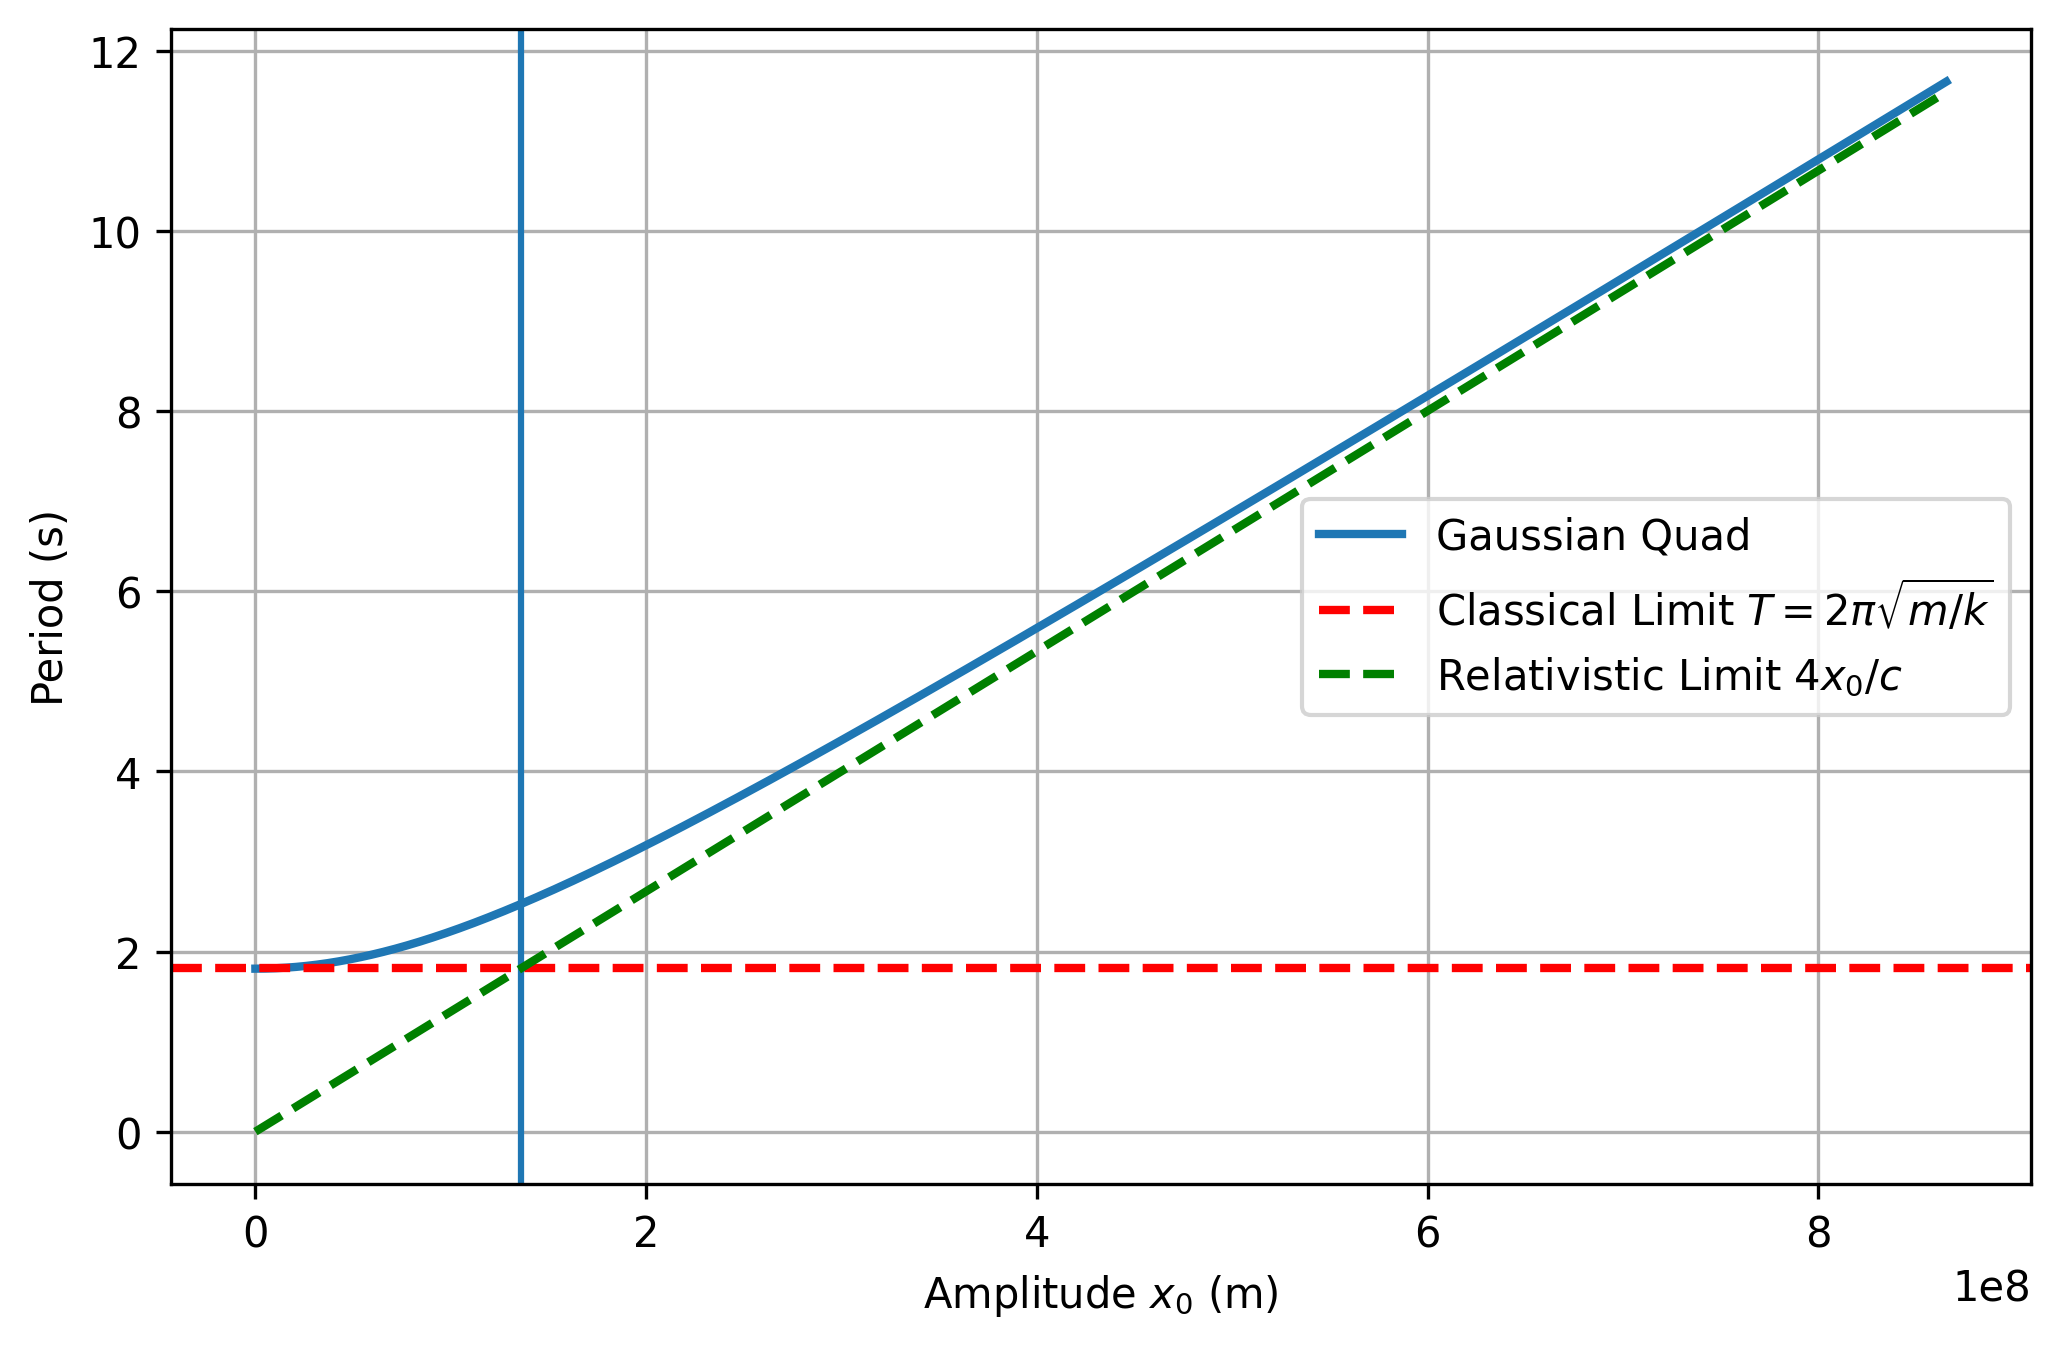
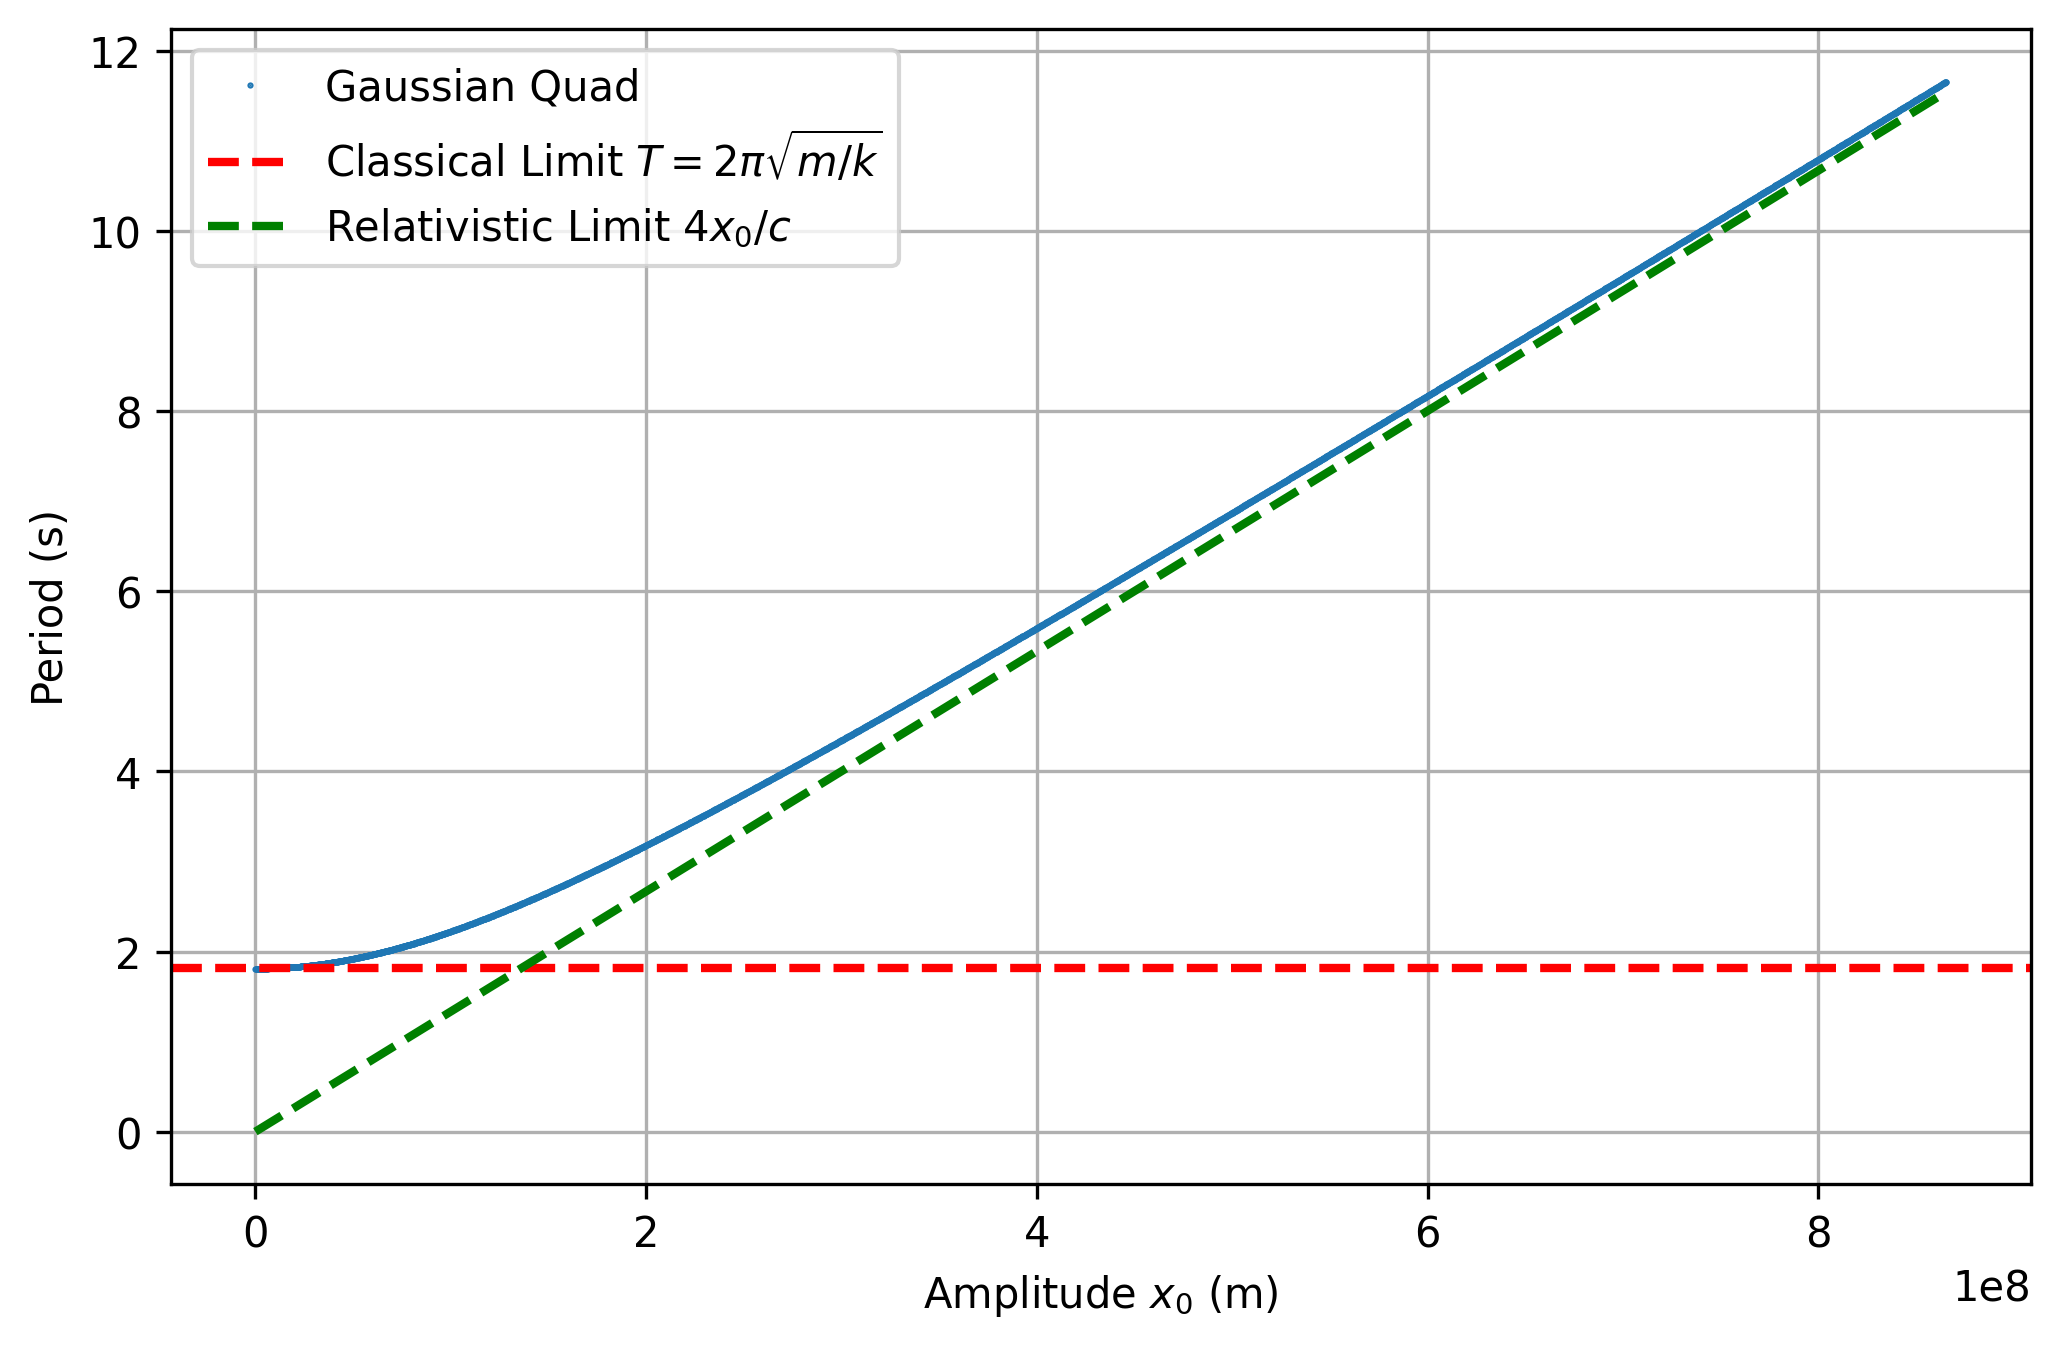
2c plot fix

Changed region(s): [[0.0932, 0.0312, 0.435, 0.8724], [0.6214, 0.4362, 0.9631, 0.5297], [0.6214, 0.3739, 0.8388, 0.405]]

diff --git a/LAB3/Lab03_Q2_c.py b/LAB3/Lab03_Q2_c.py
@@ -12,9 +12,9 @@ if __name__ == "__main__":
     boring_val = 2 * np.pi * np.sqrt(mass / spring_const)
 
     N_points = 4000
-    x0_range = np.linspace(1, x_c, N_points)
+    x0_range = np.linspace(1, 10*x_c, N_points)
 
-    N_quad = 2000
+    N_quad = 200
     periods = []
     for x0 in x0_range:
         periods.append(gaussian_quad(period_integrand(x0, mass, spring_const),
@@ -24,13 +24,11 @@ if __name__ == "__main__":
 
     plt.figure(figsize=(8, 5))
 
-    plt.plot(x0_range, periods, label="Gaussian Quad", lw=2)
-
-    # Boring harmonic oscillator (constant)
+    plt.plot(x0_range, periods, marker=".", linestyle="None", markersize=1,
+             label="Gaussian Quad")
+    # classical limit
     plt.axhline(y=boring_val, color="r", linestyle="--", lw=2,
                 label=r"Classical Limit $T = 2\pi\sqrt{m/k}$")
-
-    plt.axvline(x=135940842.4)
 
     # Relativistic limit
     plt.plot(x0_range, relative_limit_curve, "g--", lw=2, label=r"Relativistic Limit $4x_0/c$")
